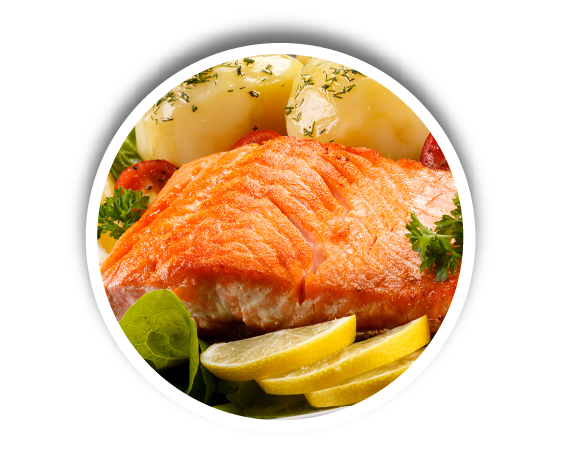
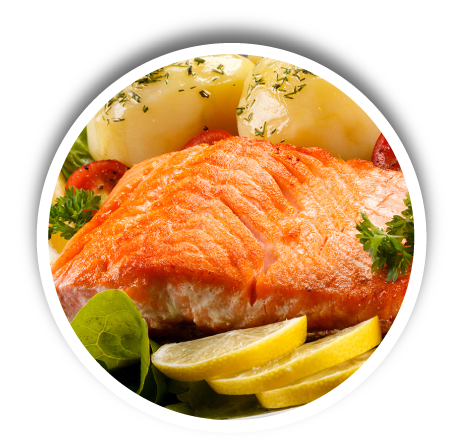
change pictures optimized

diff --git a/index.html b/index.html
@@ -25,7 +25,7 @@
           <div class="collapse navbar-collapse" id="navbarCollapse">
             <ul class="navbar-nav mr-auto">
               <li class="nav-item active"><a class="nav-link" href="#">Inicio <span class="sr-only">(current)</span></a></li>
-              <li class="nav-item"><a class="nav-link" href="#">Categorias</a></li>
+              <li class="nav-item"><a class="nav-link" href="#feature-1">Categorias</a></li>
               <li class="nav-item"><a class="nav-link" href="#">Nosotros</a></li>
               <li class="nav-item"><a class="nav-link" href="#">Resgistrate</a></li>
               <li class="nav-item"><a class="nav-link disabled" href="#">Partner</a></li>
@@ -74,8 +74,8 @@
 
         <div> <!-- FEAUTRES -->
           <div class="row featurette"> <!-- FIRST FEAUTRES -->
-            <div class="col-md-12"><img class="banner-bg " src="./img/prop pagina-17.jpg" alt="Generic placeholder image" width="100%"><img
-                class="layer-img img-fluid mx-auto" src="./img/prop pagina-25.png" alt="Generic placeholder image"></div>
+            <div class="col-md-12" id="feature-1"><img class="banner-bg " src="./img/prop pagina-17.jpg" alt="Generic placeholder image" width="100%" ><img
+                class="layer-img img-fluid" src="./img/prop pagina-25.png" alt="Generic placeholder image"></div>
             <div class="container"><img class="detail-img img-fluid" src="./img/prop pagina-24.png" alt=""></div>
             <div class="container  clean-bottom">
               <div class="col-md-12">
@@ -86,8 +86,8 @@
           </div>  <!-- END FIRST FEAUTRES -->
 
           <div class="row featurette"> <!-- SECOND FEAUTRES -->
-            <div class="col-md-12"><img class="banner-bg " src="./img/prop pagina-17.jpg" alt="Generic placeholder image" width="100%" height="150"><img
-                class="layer-img img-fluid mx-auto" src="./img/prop pagina-25.png" alt="Generic placeholder image"></div>
+            <div class="col-md-12"><img class="banner-bg " src="./img/prop pagina-17.jpg" alt="Generic placeholder image" width="100%"><img
+                class="layer-img img-fluid" src="./img/prop pagina-25.png" alt="Generic placeholder image"></div>
             <div class="container"><img class="detail-img img-fluid" src="./img/prop pagina-26.png" alt=""></div>
             <div class="container  clean-bottom">
               <div class="col-md-12">
@@ -99,8 +99,8 @@
           </div> <!-- END SECOND FEAUTRES -->
 
           <div class="row featurette"> <!-- THIRD FEAUTRES -->
-            <div class="col-md-12"><img class="banner-bg" src="./img/prop pagina-17.jpg" alt="Generic placeholder image" width="100%" height="150"><img
-                class="layer-img img-fluid mx-auto" src="./img/prop pagina-25.png" alt="Generic placeholder image"></div>
+            <div class="col-md-12"><img class="banner-bg" src="./img/prop pagina-17.jpg" alt="Generic placeholder image" width="100%"><img
+                class="layer-img img-fluid" src="./img/prop pagina-25.png" alt="Generic placeholder image"></div>
             <div class="container"><img class="detail-img img-fluid" src="./img/prop pagina-27.png" alt=""></div>
             <div class="container clean-bottom">
               <div class="col-md-12">

diff --git a/css/styles.css b/css/styles.css
@@ -121,7 +121,7 @@ body {
   }
   
   .detail-img {
-    margin-top: 50px;
+    /*margin-top: 50px;*/
     margin-bottom: -70px;
     width: 90px;
   }
@@ -138,8 +138,9 @@ body {
   }
   
   .layer-img {
-    margin-top: -150px;
-    margin-bottom: 100px;
+    margin-top: -100px;
+    margin-bottom: 50px;
+    margin-left: 3px;
     width:280px;
   }</style><style type="text/css">/*!
    * Bootstrap v4.1.1 (https://getbootstrap.com/)
@@ -4138,6 +4139,7 @@ body {
     -ms-flex-pack: justify;
     justify-content: space-between;
     padding: 0.5rem 1rem;
+    width: 33.3%;
   }
   
   .navbar > .container,
@@ -4167,6 +4169,7 @@ body {
   }
   
   .navbar-nav {
+
     display: -ms-flexbox;
     display: flex;
     -ms-flex-direction: column;
@@ -4182,6 +4185,7 @@ body {
   }
   
   .navbar-nav .dropdown-menu {
+    display: block;
     position: static;
     float: none;
   }
@@ -7503,13 +7507,13 @@ body {
     position: sticky !important;
   }
   
-  .fixed-top {
+  /*.fixed-top {
     position: fixed;
     top: 0;
     right: 0;
     left: 0;
     z-index: 1030;
-  }
+  }*/
   
   .fixed-bottom {
     position: fixed;
@@ -9221,7 +9225,7 @@ h1.section-title{
     font-size: 70px;
     font-weight: 800;
     text-align: center;
-    text-shadow: 2px 1px rgba(0, 0, 0, 0.719);
+    text-shadow: 3px 2px rgba(0, 0, 0, 0.305);
 }
 
 p.section-description{
